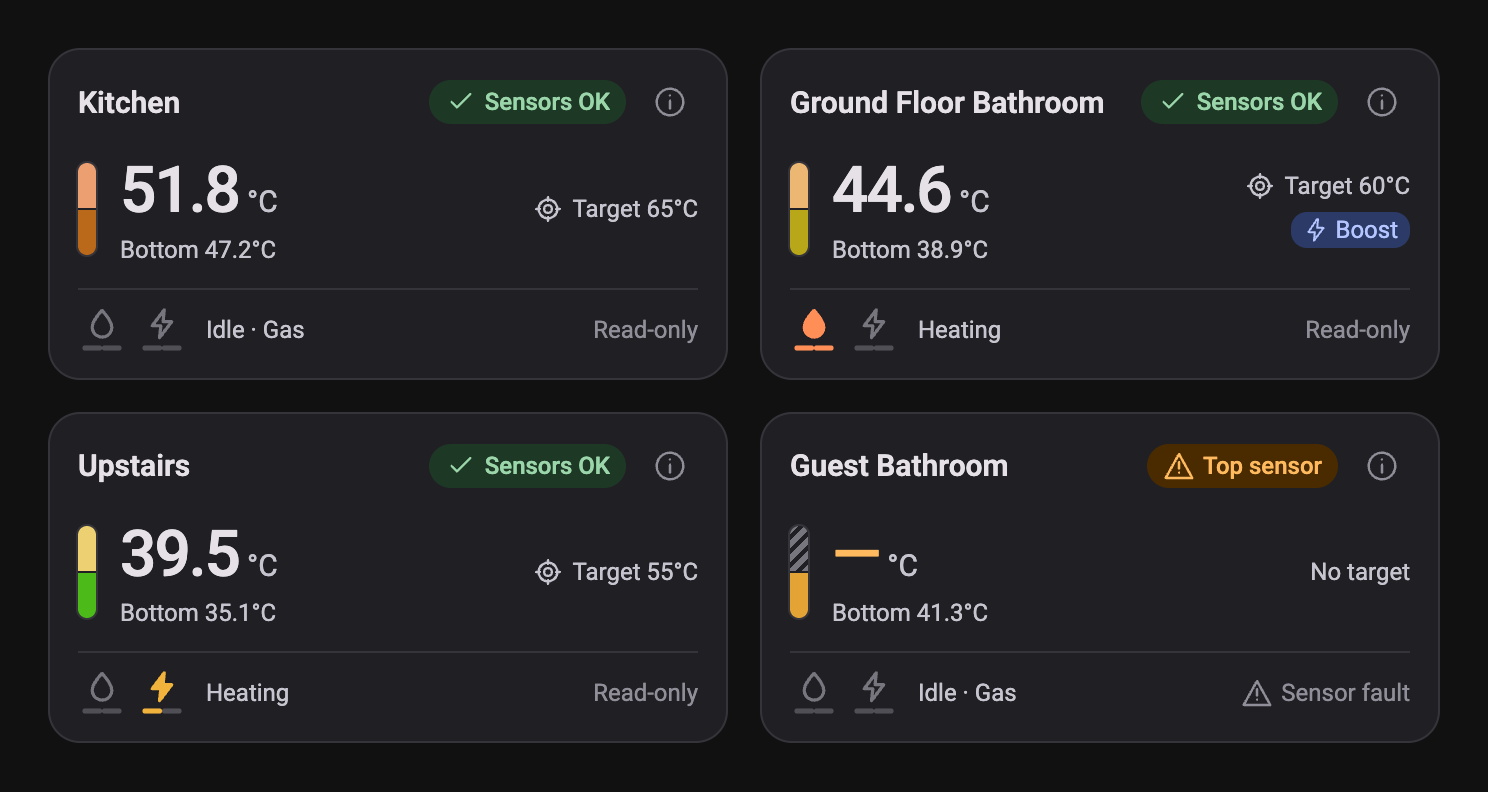
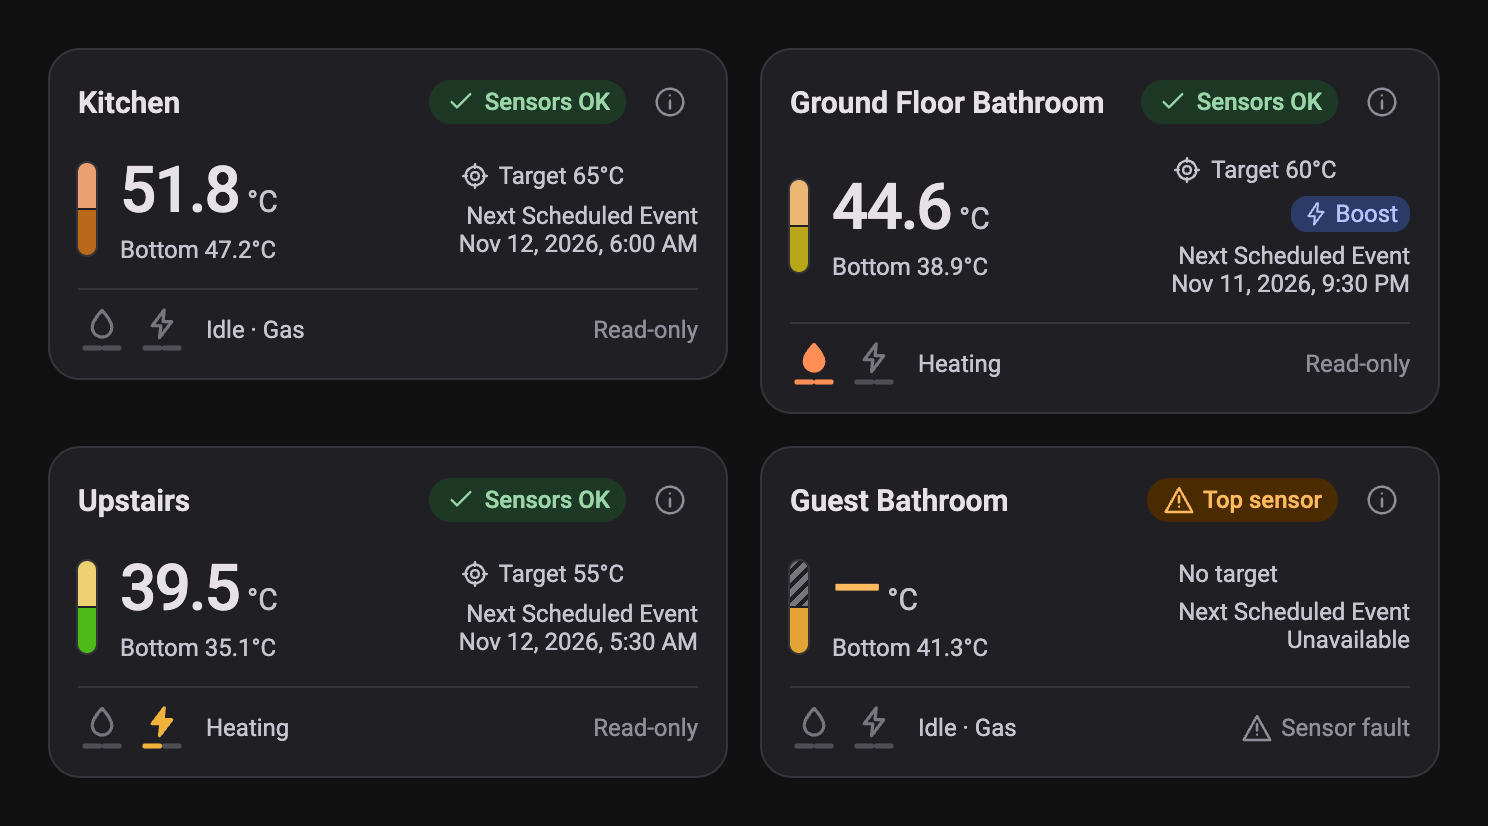
Smooth tank temperatures and refresh screenshots
The top and bottom readings scatter about 0.2 °C around the real
temperature, so they changed almost every second and stored about
2,600 history rows an hour each. A median of 5 readings, a 10-second
average and a 0.2 °C deadband bring that to about 5 to 15 while cooling
or idle; the card still updates every second. Only the two tank
temperatures are smoothed. Unsmoothed readings are new raw sensors,
disabled by default.

The screenshots now show the next scheduled event, and capture.sh
renders in a fixed time zone and language.

diff --git a/assets/screenshots/harness.html b/assets/screenshots/harness.html
@@ -14,15 +14,16 @@
 <body>
 <div id="stage"></div>
 <script>
-// Every reading below is made up. Heating states have not been captured from a real geyser.
+// Every reading below is made up. Heating states have not been captured from a real geyser. Event times are in
+// Asia/Karachi, the time zone capture.sh renders in; Guest Bathroom has no schedule, so its event is unavailable.
 const GEYSERS = {
-  kitchen: {name:'Kitchen', values:{top:'51.8', bottom:'47.2', target:'65'}},
-  bathroom: {name:'Ground Floor Bathroom', values:{top:'44.6', bottom:'38.9', target:'60', burner_left:'on', burner_right:'on', boost:'on'}},
-  upstairs: {name:'Upstairs', values:{top:'39.5', bottom:'35.1', target:'55', source:'hybrid', source_code:3, element_1:'on'}},
+  kitchen: {name:'Kitchen', values:{top:'51.8', bottom:'47.2', target:'65', next_event:'2026-11-12T06:00:00+05:00'}},
+  bathroom: {name:'Ground Floor Bathroom', values:{top:'44.6', bottom:'38.9', target:'60', burner_left:'on', burner_right:'on', boost:'on', next_event:'2026-11-11T21:30:00+05:00'}},
+  upstairs: {name:'Upstairs', values:{top:'39.5', bottom:'35.1', target:'55', source:'hybrid', source_code:3, element_1:'on', next_event:'2026-11-12T05:30:00+05:00'}},
   guest: {name:'Guest Bathroom', values:{top:'unknown', top_ok:'off', bottom:'41.3', target:'0'}},
-  garage: {name:'Garage', values:{top:'36.4', bottom:'33.0', target:'0'}, unreachable:true},
-  laundry: {name:'Laundry', values:{top:'42.0', bottom:'40.6', target:'50', element_1:'on', element_2:'on'}},
-  roof: {name:'Rooftop', values:{top:'58.1', bottom:'57.4', target:'60', burner_left:'on'}},
+  garage: {name:'Garage', values:{top:'36.4', bottom:'33.0', target:'0', next_event:'2026-11-12T06:30:00+05:00'}, unreachable:true},
+  laundry: {name:'Laundry', values:{top:'42.0', bottom:'40.6', target:'50', element_1:'on', element_2:'on', next_event:'2026-11-12T07:00:00+05:00'}},
+  roof: {name:'Rooftop', values:{top:'58.1', bottom:'57.4', target:'60', burner_left:'on', next_event:'2026-11-11T22:00:00+05:00'}},
 };
 const SCENES = {
   'dashboard-light': {dark:false, columns:[340,340], cards:['kitchen','bathroom','upstairs','guest']},
@@ -35,8 +36,8 @@ const SCENES = {
   'narrow': {dark:false, columns:[200,200,200], cards:['kitchen','laundry','roof']},
 };
 const DEFAULTS = {source:'gas', source_code:1, top_ok:'on', bottom_ok:'on', burner_left:'off', burner_right:'off',
-  element_1:'off', element_2:'off', boost:'off'};
-const isSensor = key => ['top','bottom','target','source'].includes(key);
+  element_1:'off', element_2:'off', boost:'off', next_event:'unknown'};
+const isSensor = key => ['top','bottom','target','source','next_event'].includes(key);
 
 function states(id, values, override) {
   const all = {...DEFAULTS, ...values};

diff --git a/tests/test_init.py b/tests/test_init.py
@@ -26,6 +26,8 @@ ENTITY_IDS = {
     "sensor.kitchen_heating_source": "gas",
     "binary_sensor.kitchen_heating_boost_mode": STATE_OFF,
 }
+# Every unsmoothed reading; disabled by default, so they have no state until enabled.
+RAW_ENTITY_IDS = {"sensor.kitchen_temperature_top_raw", "sensor.kitchen_temperature_bottom_raw"}
 
 
 async def _setup(hass: HomeAssistant, entry: MockConfigEntry) -> None:
@@ -44,7 +46,7 @@ def _answer(aioclient_mock: AiohttpClientMocker, quick_status: bytes | None = QU
         aioclient_mock.get(f"http://{HOST}/quickStatus", content=quick_status)
 
 
-async def test_setup_creates_one_named_device_with_twelve_prefixed_entities(
+async def test_setup_creates_one_named_device_with_fourteen_prefixed_entities(
     hass: HomeAssistant, entry: MockConfigEntry, geyser: AiohttpClientMocker
 ) -> None:
     await _setup(hass, entry)
@@ -56,8 +58,11 @@ async def test_setup_creates_one_named_device_with_twelve_prefixed_entities(
         "Kitchen", "KytherTek", "Hybrid geyser · v2", "1.4.0",
     )  # fmt: skip
     assert (dr.CONNECTION_NETWORK_MAC, MAC) in device.connections
-    entities = er.async_entries_for_device(er.async_get(hass), device.id)
-    assert {entity.entity_id for entity in entities} == set(ENTITY_IDS)
+    entities = er.async_entries_for_device(er.async_get(hass), device.id, include_disabled_entities=True)
+    assert {entity.entity_id for entity in entities} == set(ENTITY_IDS) | RAW_ENTITY_IDS
+    assert {entity.entity_id for entity in entities if entity.disabled_by is er.RegistryEntryDisabler.INTEGRATION} == (
+        RAW_ENTITY_IDS
+    )
     assert {entity_id: hass.states.get(entity_id).state for entity_id in ENTITY_IDS} == ENTITY_IDS
     assert hass.states.get("sensor.kitchen_temperature_top").attributes["friendly_name"] == "Kitchen Temperature top"
     assert [str(call[1]) for call in geyser.mock_calls] == [
@@ -102,6 +107,44 @@ async def test_polls_every_second_and_unknown_temperature_while_its_sensor_is_no
     assert hass.states.get("sensor.kitchen_temperature_top").state == STATE_UNKNOWN
     assert hass.states.get("binary_sensor.kitchen_temperature_top_ok").state == STATE_OFF
     assert hass.states.get("binary_sensor.kitchen_burner_right_flame_sensor").state == STATE_ON
+
+
+async def _poll(hass: HomeAssistant, geyser: AiohttpClientMocker, freezer: FrozenDateTimeFactory, top: float) -> None:
+    _answer(geyser, QUICK_STATUS.replace(b'"top":43.1', f'"top":{top}'.encode()))
+    freezer.tick(timedelta(seconds=1))
+    async_fire_time_changed(hass)
+    await hass.async_block_till_done()
+
+
+async def test_scatter_in_the_top_reading_does_not_change_the_temperature(
+    hass: HomeAssistant, entry: MockConfigEntry, geyser: AiohttpClientMocker, freezer: FrozenDateTimeFactory
+) -> None:
+    await _setup(hass, entry)
+
+    for top in (43.3, 42.9, 43.2, 43.0, 43.4, 42.8):
+        await _poll(hass, geyser, freezer, top)
+        assert hass.states.get("sensor.kitchen_temperature_top").state == "43.1"
+
+
+async def test_an_enabled_raw_temperature_shows_every_reading(
+    hass: HomeAssistant, entry: MockConfigEntry, geyser: AiohttpClientMocker, freezer: FrozenDateTimeFactory
+) -> None:
+    entry.add_to_hass(hass)
+    er.async_get(hass).async_get_or_create(
+        "sensor",
+        DOMAIN,
+        f"{MAC}_temperature_top_raw",
+        config_entry=entry,
+        suggested_object_id="kitchen_temperature_top_raw",
+    )
+    await hass.config_entries.async_setup(entry.entry_id)
+    await hass.async_block_till_done()
+    assert hass.states.get("sensor.kitchen_temperature_top_raw").state == "43.1"
+
+    await _poll(hass, geyser, freezer, 43.4)
+
+    assert hass.states.get("sensor.kitchen_temperature_top_raw").state == "43.4"
+    assert hass.states.get("sensor.kitchen_temperature_top").state == "43.1"
 
 
 async def test_heating_source_is_an_enum_and_an_unconfirmed_code_is_unknown_with_the_code_kept(

diff --git a/custom_components/ezgeyser/sensor.py b/custom_components/ezgeyser/sensor.py
@@ -1,4 +1,7 @@
-"""Temperature and heating-source sensors, from `/quickStatus`."""
+"""Temperature and heating-source sensors, from `/quickStatus`.
+
+The tank temperatures are smoothed (see `smoothing.py`); the raw readings are separate sensors, disabled by default.
+"""
 
 from collections.abc import Callable
 from dataclasses import dataclass
@@ -30,11 +33,13 @@ SOURCE_OPTIONS = ["gas", "electric", "hybrid", "unknown"]
 
 @dataclass(frozen=True, kw_only=True)
 class EzGeyserSensorDescription(SensorEntityDescription):
-    value_fn: Callable[[QuickStatus], StateType]
+    value_fn: Callable[[EzGeyserCoordinator], StateType]
     attributes_fn: Callable[[QuickStatus], dict[str, Any]] | None = None
 
 
-def _temperature(key: str, value_fn: Callable[[QuickStatus], StateType]) -> EzGeyserSensorDescription:
+def _temperature(
+    key: str, value_fn: Callable[[EzGeyserCoordinator], StateType], *, enabled: bool = True
+) -> EzGeyserSensorDescription:
     return EzGeyserSensorDescription(
         key=key,
         translation_key=key,
@@ -42,21 +47,33 @@ def _temperature(key: str, value_fn: Callable[[QuickStatus], StateType]) -> EzGe
         native_unit_of_measurement=UnitOfTemperature.CELSIUS,
         state_class=SensorStateClass.MEASUREMENT,
         suggested_display_precision=1,
+        entity_registry_enabled_default=enabled,
         value_fn=value_fn,
     )
 
 
 SENSORS: tuple[EzGeyserSensorDescription, ...] = (
     # A reading is meaningful only while its sensor reports OK; otherwise the state is unknown, as in the Android app.
-    _temperature("temperature_top", lambda status: status.top if status.top_ok else None),
-    _temperature("temperature_bottom", lambda status: status.bottom if status.bottom_ok else None),
-    _temperature("temperature_target", lambda status: status.target_temp),
+    _temperature("temperature_top", lambda coordinator: coordinator.temperatures["temperature_top"]),
+    _temperature("temperature_bottom", lambda coordinator: coordinator.temperatures["temperature_bottom"]),
+    # Every 1-second reading, unsmoothed. Disabled by default: enabled, each stores about 2,600 history rows an hour.
+    _temperature(
+        "temperature_top_raw",
+        lambda coordinator: coordinator.data.top if coordinator.data.top_ok else None,
+        enabled=False,
+    ),
+    _temperature(
+        "temperature_bottom_raw",
+        lambda coordinator: coordinator.data.bottom if coordinator.data.bottom_ok else None,
+        enabled=False,
+    ),
+    _temperature("temperature_target", lambda coordinator: coordinator.data.target_temp),
     EzGeyserSensorDescription(
         key="heating_source",
         translation_key="heating_source",
         device_class=SensorDeviceClass.ENUM,
         options=SOURCE_OPTIONS,
-        value_fn=lambda status: SOURCE_CODES.get(status.source, "unknown"),
+        value_fn=lambda coordinator: SOURCE_CODES.get(coordinator.data.source, "unknown"),
         attributes_fn=lambda status: {"source_code": status.source},
     ),
 )
@@ -95,7 +112,7 @@ class EzGeyserSensor(EzGeyserEntity, SensorEntity):
     @property
     @override
     def native_value(self) -> StateType:
-        return self.entity_description.value_fn(self.coordinator.data)
+        return self.entity_description.value_fn(self.coordinator)
 
     @property
     @override

diff --git a/custom_components/ezgeyser/smoothing.py b/custom_components/ezgeyser/smoothing.py
@@ -1,0 +1,51 @@
+"""Steadies the 1-second tank temperatures, so they change, and Recorder stores a row, only as the water heats or cools.
+
+A geyser's readings scatter about 0.2 °C around the real temperature, with single-second jumps of over 1 °C. Each
+reading goes through a median that drops one-off jumps, then an average weighted by the time between readings, and the
+published value moves only once that average is `DEADBAND` away from it. See "Smoothed temperatures" in the README.
+"""
+
+from collections import deque
+import math
+import statistics
+from typing import Final
+
+# Readings in the median that drops one-off jumps.
+SPIKE_WINDOW: Final = 5
+# Seconds; the average follows a change about this slowly.
+TIME_CONSTANT: Final = 10.0
+# °C the average must move away from the published value before it changes.
+DEADBAND: Final = 0.2
+# Seconds without a reading after which the filter starts over, instead of mixing in old readings.
+STALE_AFTER: Final = 30.0
+
+
+class TemperatureFilter:
+    """One tank sensor's smoothed temperature. `value` is what the sensor entity shows."""
+
+    def __init__(self) -> None:
+        self._recent: deque[float] = deque(maxlen=SPIKE_WINDOW)
+        self._average: float | None = None
+        self._at = 0.0
+        self.value: float | None = None
+
+    def update(self, reading: float | None, at: float) -> float | None:
+        """Add the reading taken at `at` (seconds, monotonic). `None` means the sensor is not OK: unknown at once."""
+        if reading is None or at - self._at > STALE_AFTER:
+            self.reset()
+        if reading is None:
+            return None
+        self._recent.append(reading)
+        median = statistics.median(self._recent)
+        if self._average is None:
+            self._average = median
+        else:
+            self._average += (1 - math.exp(-max(at - self._at, 0.0) / TIME_CONSTANT)) * (median - self._average)
+        self._at = at
+        if self.value is None or abs(self._average - self.value) >= DEADBAND:
+            self.value = round(self._average, 1)
+        return self.value
+
+    def reset(self) -> None:
+        self._recent.clear()
+        self._average = self.value = None

diff --git a/custom_components/ezgeyser/coordinator.py b/custom_components/ezgeyser/coordinator.py
@@ -2,6 +2,7 @@
 
 from datetime import datetime, timedelta
 import logging
+import time
 from typing import Any, override
 
 from homeassistant.config_entries import ConfigEntry
@@ -19,6 +20,7 @@ from .const import (
     TOLERATED_FAILURES,
 )
 from .schedule import next_event, parse_schedules
+from .smoothing import TemperatureFilter
 
 _LOGGER = logging.getLogger(__name__)
 
@@ -46,6 +48,9 @@ class EzGeyserCoordinator(DataUpdateCoordinator[QuickStatus]):
         self._schedules_due = utcnow()
         self.schedules: list[dict[str, Any]] | None = None
         self.next_event: datetime | None = None
+        # The smoothed tank temperatures the temperature sensors show, by sensor key; `data` keeps the raw readings.
+        self._filters = {"temperature_top": TemperatureFilter(), "temperature_bottom": TemperatureFilter()}
+        self.temperatures: dict[str, float | None] = dict.fromkeys(self._filters)
 
     @override
     async def _async_setup(self) -> None:
@@ -74,6 +79,12 @@ class EzGeyserCoordinator(DataUpdateCoordinator[QuickStatus]):
             except GeyserError:
                 self.schedules = None
         self.next_event = next_event(self.schedules, status.clock, local_now()) if self.schedules is not None else None
+        at = time.monotonic()
+        for key, reading in (
+            ("temperature_top", status.top if status.top_ok else None),
+            ("temperature_bottom", status.bottom if status.bottom_ok else None),
+        ):
+            self.temperatures[key] = self._filters[key].update(reading, at)
         self._failures = 0
         self.update_interval = POLL_INTERVAL
         return status

diff --git a/tests/test_smoothing.py b/tests/test_smoothing.py
@@ -1,0 +1,40 @@
+from custom_components.ezgeyser.smoothing import STALE_AFTER, TemperatureFilter
+
+
+def _feed(readings: list[float | None], start: float = 1000.0) -> list[float | None]:
+    smoothed = TemperatureFilter()
+    return [smoothed.update(reading, start + second) for second, reading in enumerate(readings)]
+
+
+def test_the_first_reading_shows_as_it_is() -> None:
+    assert _feed([43.1]) == [43.1]
+
+
+def test_scatter_around_the_real_temperature_never_changes_the_value() -> None:
+    scatter = [43.1, 43.3, 42.9, 43.2, 43.0, 43.4, 42.8, 43.1, 43.2, 43.0] * 6
+
+    assert set(_feed(scatter)) == {43.1}
+
+
+def test_a_one_off_jump_is_dropped() -> None:
+    assert set(_feed([43.1] * 10 + [44.4] + [43.1] * 10)) == {43.1}
+
+
+def test_a_real_change_shows_within_half_a_minute_and_settles() -> None:
+    values = _feed([40.0] * 30 + [45.0] * 90)
+
+    assert values[29] == 40.0
+    assert values[30 + 25] >= 44.5
+    assert values[30 + 30] >= 44.7
+    assert abs(values[-1] - 45.0) < 0.2
+
+
+def test_a_sensor_fault_is_unknown_at_once_and_the_next_reading_shows_as_it_is() -> None:
+    assert _feed([43.1, 43.1, None, 47.5]) == [43.1, 43.1, None, 47.5]
+
+
+def test_after_a_long_gap_the_next_reading_shows_as_it_is() -> None:
+    smoothed = TemperatureFilter()
+    smoothed.update(43.1, 1000.0)
+
+    assert smoothed.update(47.5, 1000.0 + STALE_AFTER + 1) == 47.5

diff --git a/README.md b/README.md
@@ -80,9 +80,9 @@ For a geyser named **Kitchen**:
 
 | Entity ID | Shows |
 |---|---|
-| `sensor.kitchen_temperature_top` | Top tank sensor, °C. Unknown while the sensor reports a fault. |
+| `sensor.kitchen_temperature_top` | Top tank sensor, °C, [smoothed](#smoothed-temperatures). Unknown while the sensor reports a fault. |
 | `binary_sensor.kitchen_temperature_top_ok` | **OK** / **Fault**: whether the top sensor reading is valid. |
-| `sensor.kitchen_temperature_bottom` | Bottom tank sensor, °C. Unknown while the sensor reports a fault. |
+| `sensor.kitchen_temperature_bottom` | Bottom tank sensor, °C, [smoothed](#smoothed-temperatures). Unknown while the sensor reports a fault. |
 | `binary_sensor.kitchen_temperature_bottom_ok` | **OK** / **Fault**: whether the bottom sensor reading is valid. |
 | `sensor.kitchen_temperature_target` | Target temperature of the running timer or preset, °C. 0 most likely means no target. |
 | `binary_sensor.kitchen_burner_left_flame_sensor` | **Flame** / **No flame**: flame sensor 1, at one end of the burner. |
@@ -91,6 +91,8 @@ For a geyser named **Kitchen**:
 | `binary_sensor.kitchen_heating_element_2` | **Heating** / **Off**: electric heating element 2. |
 | `sensor.kitchen_heating_source` | **Gas**, **Electric**, **Hybrid** or **Unknown**: the selected heating source. |
 | `binary_sensor.kitchen_heating_boost_mode` | **Active** / **Inactive**: boost mode. |
+| `sensor.kitchen_temperature_top_raw` | Disabled by default. The top sensor's reading every second, unsmoothed. |
+| `sensor.kitchen_temperature_bottom_raw` | Disabled by default. The bottom sensor's reading every second, unsmoothed. |
 
 The labels are for display. In automations and templates, binary sensors are `on` (the first label) or `off`, and the
 heating source is `gas`, `electric`, `hybrid` or `unknown`. Only the Gas code is confirmed so far; any other code shows
@@ -109,10 +111,10 @@ seen on a real geyser (see [Entities](#entities)).
 
 | | |
 |---|---|
-| ![Kitchen geyser idle on gas: 51.8 °C top, 47.2 °C bottom, target 65 °C, Sensors OK](assets/screenshots/idle.png) | ![Ground Floor Bathroom heating on gas with both burner sides lit and Boost on, dark theme](assets/screenshots/gas-heating.png) |
-| **Idle.** Top reading large, bottom below it, the target on the right, and the selected source in the footer. | **Heating on gas, dark theme.** Both burner sides report flame, and Boost is active. |
-| ![Upstairs geyser heating with electric element 1 on](assets/screenshots/electric-heating.png) | ![Guest Bathroom with a top sensor fault: a dash instead of the top reading and a hatched top half](assets/screenshots/sensor-fault.png) |
-| **Heating on an electric element.** The bolt lights, and the bar shows which of the two elements is on. | **Sensor fault, dark theme.** The faulty reading shows a dash, and the badge names the sensor. |
+| ![Kitchen geyser idle on gas: 51.8 °C top, 47.2 °C bottom, target 65 °C, next scheduled event Nov 12 at 6:00 AM, Sensors OK](assets/screenshots/idle.png) | ![Ground Floor Bathroom heating on gas with both burner sides lit and Boost on, dark theme](assets/screenshots/gas-heating.png) |
+| **Idle.** Top reading large, bottom below it, the target and next scheduled event on the right, and the selected source in the footer. | **Heating on gas, dark theme.** Both burner sides report flame, and Boost is active. |
+| ![Upstairs geyser heating with electric element 1 on](assets/screenshots/electric-heating.png) | ![Guest Bathroom with a top sensor fault: a dash instead of the top reading, a hatched top half, and an unavailable next scheduled event](assets/screenshots/sensor-fault.png) |
+| **Heating on an electric element.** The bolt lights, and the bar shows which of the two elements is on. | **Sensor fault, dark theme.** The faulty reading shows a dash, and the badge names the sensor. With no schedule, the next event shows **Unavailable**. |
 | ![Garage geyser unreachable, showing muted last known values and when they were last available](assets/screenshots/unreachable.png) | |
 | **Unreachable.** Muted last known values and when Home Assistant last had them. | |
 
@@ -200,6 +202,22 @@ use your Home Assistant units. The same example is in [`dashboards/geyser.yaml`]
   the address is fixed.
 - The scan asks only devices that announced themselves on the network, one at a time, at most 8 per scan. It never
   tries every address in your network.
+
+### Smoothed temperatures
+
+The tank sensors' readings scatter about 0.2 °C around the real temperature, with single-second jumps of over 1 °C, so
+unsmoothed they change almost every second and store about 2,600 history rows an hour each. The top and bottom
+temperatures are therefore smoothed: a median of the last 5 readings drops one-off jumps, a 10-second average removes
+the scatter, and the shown value changes only once that average moves 0.2 °C. That brings each sensor down to about
+5 to 15 history rows an hour while the water cools or sits idle, and a few a minute while it heats.
+
+- The card and the entities still update every second. A real change shows within about 30 seconds, and the shown
+  value can be up to 0.2 °C from the average.
+- A sensor fault shows as unknown at once. After 30 seconds without a reading, smoothing starts over.
+- Only the two tank temperatures are smoothed. The target, heating source, scheduled event and every on/off sensor
+  show what the geyser reports.
+- For every reading, enable **Temperature top raw** or **Temperature bottom raw** (**Settings > Devices > your geyser
+  > entities not shown**). Each stores about 2,600 history rows an hour while enabled.
 
 Select a temperature, target, Boost, heating source, or scheduled event on the card to open its entity details and history. Select the left or right half of a gas or electric icon to open the corresponding flame or element sensor.
 

diff --git a/CHANGELOG.md b/CHANGELOG.md
@@ -1,5 +1,13 @@
 # Changelog
 
+## 0.5.4 (2026-11-11)
+
+- Smooth the top and bottom tank temperatures: a median of the last 5 readings, a 10-second average and a 0.2 °C
+  deadband. History drops from about 2,600 rows an hour per sensor to about 5 to 15 while cooling or idle; the card
+  still updates every second and follows a heat-up within about 30 seconds. Other entities are unchanged.
+- Add **Temperature top raw** and **Temperature bottom raw**, disabled by default, with every unsmoothed reading.
+- Update the README screenshots to show the next scheduled event.
+
 ## 0.5.3 (2026-11-11)
 
 - Open the corresponding entity details from individual card readings and each gas or electric sensor.
